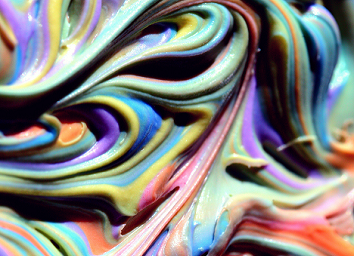
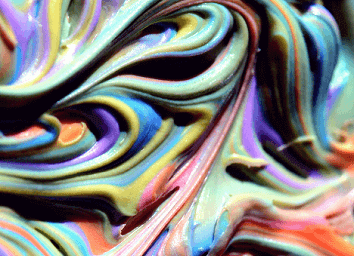
Resize images

diff --git a/checkout/templates/checkout/checkout.html b/checkout/templates/checkout/checkout.html
@@ -40,8 +40,9 @@
                         {% else %}
                         <img class="w-100" src="{{ MEDIA_URL }}noimage.png" alt="{{ product.name }}">
                         {% endif %}
-                    </a>
+                     </a>
                 </div>
+                
                 <div class="col-4">
                     <a href="{% url 'product_details' item.product.id %}">
                         <p class="my-0"><strong>{{ item.product.name }}</strong></p>
@@ -54,10 +55,10 @@
                     <p class="my-0 small text-muted">${{ item.product.price | calc_subtotal:item.quantity }}</p>
                 </div>
             </div>
-
             {% endfor %}
 
             <hr class="my-0">
+            
             <div class="row text-black text-right">
                 <div class="col-7">
                     <p class="my-0">Order Total:</p>
@@ -70,10 +71,12 @@
                     <p class="my-0"><strong>${{ grand_total | floatformat:2 }}</strong></p>
                 </div>
             </div>
-
+            
         </div>
         <div class="col-12 col-lg-6">
-
+            {% if item.quantity > 20 %}
+            <p>Please contact us for orders above 20 items.</p>
+            {% else %}
             <p class="text-muted">Please fill out the form below to complete your order</p>
             <form action="{% url 'checkout' %}" method="POST" id="payment-form">
                 {% csrf_token %}
@@ -137,6 +140,7 @@
                     </p>
                 </div>
             </form>
+            {% endif %}
         </div>
     </div>
 </div>

diff --git a/profiles/templates/profiles/profile.html b/profiles/templates/profiles/profile.html
@@ -10,7 +10,6 @@
 <div class="container">
     <div class="row">
         <div class="col">
-            <hr>
             <h2 class="logo-font mb-4">My Profile</h2>
             <hr>
         </div>

diff --git a/TESTING.md b/TESTING.md
@@ -132,7 +132,7 @@ Test passed, all functions work as expected.
 ## **Account Creation and Profile Management**
 ### **Site Visitor**
 
-This is first time visitor as well as a returning visitor who hasn't created an account previously.
+This could be a first time visitor as well as a returning visitor who hasn't created an account previously.
 
 * User Stories:
     * *As a	site visitor I want to be able to:*
@@ -140,25 +140,49 @@ This is first time visitor as well as a returning visitor who hasn't created an 
         * *Easily login and logut* 
         * *Easily recover my password if neccesary*
 
+Benfeits of creating an account:
+* Personal information saved in their profile for easier future purchases
+* Having a list of past orders saved in their account
+* Receiving notifications about discounts, giveaways etc. 
+
+
+The **My Account** icon is placed in the website header and it is clearly visible and accessible from any page of the website.\
+Visitor should be able to click on the **My Account** icon and see the options to **Login** or **Register**\
+When the visitor clicks on **Register** they should be presented with a form asking for their details.\
+After submitting the form, an email confirmation should be required.\
+When the visitor confirms their email, they should be able to log in with their new credentials.
+
+
+As a **logged-in** user, the user can now see additional option in the **My Account** dropdown menu - **Profile Management**.\
+From here the user can update their profile information that are saved for future purchases.\
+List of past orders should be saved in their account as well.\
+To recover ther password they should be able to click on the **Forgot Password** link and follow the instructions to change the password.\
+The user should easily log out by clicking the **Logout** link in the **My Account** menu.\
+They shouold be asked to confirm if they really want to logout, in case they have clicked this link by accident.  
+
 ### **Test**
+I have tried to register for a new account.\ 
+I have tried to login with my new credentials.\
+I tried to change my details and click **Update Information**.\
+I have tried to change my password and I have received an email with a link to reset it. 
+I have tested the logout button
 
-The **My Account** icon is placed in the website header and it is clearly visible and accessible from any page of the website.
+**Form Validation**
 
-Visitor can click on the **My Account** icon and will see the options to **Login** or **Register**
-
-When the visitor clicks on **Register** they will be presented with a  form asking for their details. After submitting the form, an email confirmation will be required. When the visitor confrims their email, they will be able to log in with their new credentials.
-
-As a **logged-in** user, the user can now see additional option in the **My Account** dropdown menu - **Profile Management**. From here the user can update their profile information that are saved for future purchases.
-
-In case the user forgets their password, they can click on the **Forgot Password?** link and follow the instructions to change the password.
-
-When finished, the user can easily log out by clicking the **Logout** link in the **My Account** menu. They will be asked to confrim if they really want to logout in case they have clicked this link by accident.  
 
 ### **Result**  
-I have followed the proces several times and created several users. The process is simple and intuitive and the visitor can create their account with a few clicks, easily manage their profile and logout.
+I was able to create the account, and I have received an email to confirm my email.
+I was able to login with my new credentials.\
+When I logged in, I was able to access the **My Profile** page where my details was saved.\
+I have succesfully changed the detials on my account by clicking on the **Update** button.
+I was able able to succesfully change the password by clicking on the **Forgot Password** link and fillowing instructions.\
+The list of past orders was indeed saved in my account.\ 
+
 
 ### **Conclusion**
-Test passed, the function works as expected. 
+I have followed the proces several times and created several users. The process is simple and intuitive and the visitor can create their account with a few clicks, easily manage their profile and logout.
+
+Test passed, the functionality works as expected. 
 
 
 <br>
@@ -236,7 +260,7 @@ User Stories:
 
 The user can access the **Products** page from the Home page directly by clicking on the **View Shop** button or 
 through the **Shop** navbar link.\
-When they hover ove the Shop button the dropdown menu should appear and the user can choose which category of products they wish to go to.
+When they hover over the Shop button the dropdown menu should appear and the user should be able to choose which category of products they wish to go to.
 Or they have the option to click on **All Products**.
 
 ### **Test**
